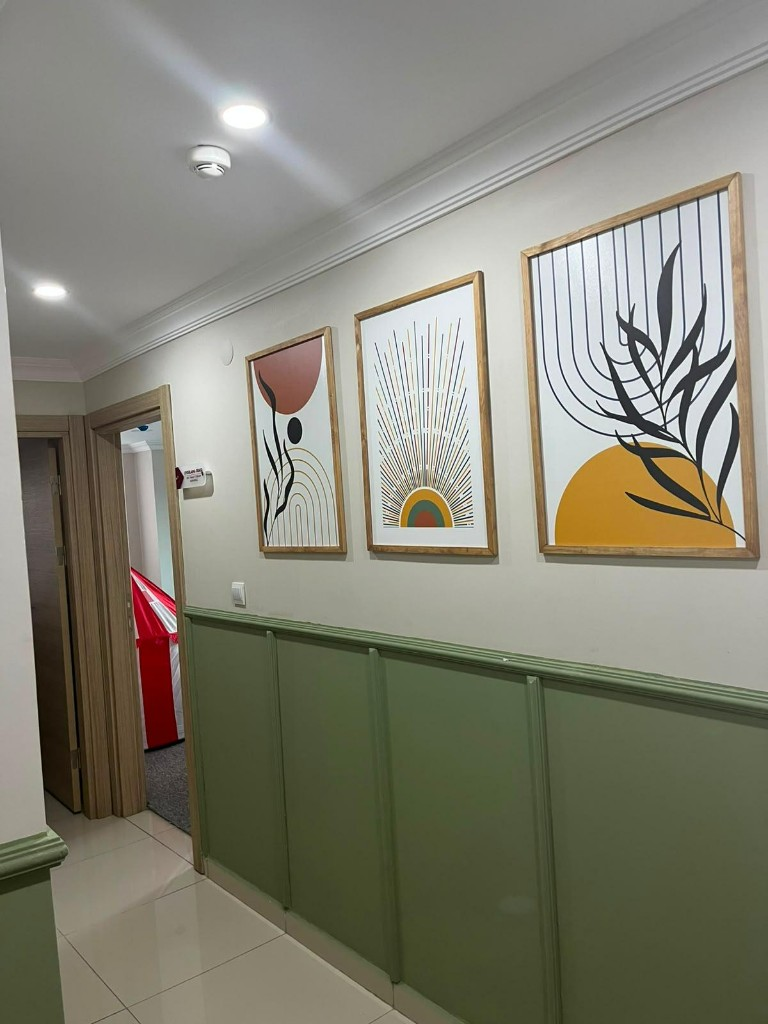
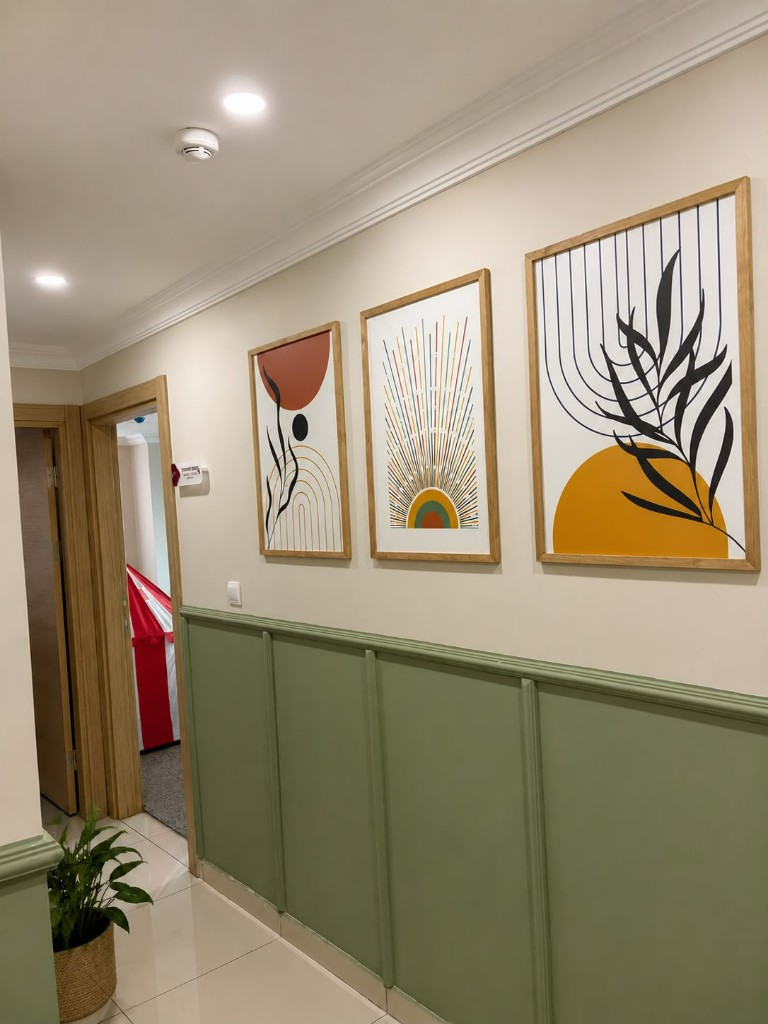
Klinik fotograflari guncellendi ve iletisim bolumune pinli harita eklendi.

diff --git a/src/components/ContactSection.vue b/src/components/ContactSection.vue
@@ -1,6 +1,13 @@
 <script setup>
 import { reactive, ref } from 'vue'
 
+const address =
+  'Yenişehir, Ömer Lütfi Özaytaç Caddesi No:5 Kat:2 Daire:202, 78000 Merkez/Karabük'
+const coordinates = '41.197423,32.618969'
+const mapsUrl = `https://www.google.com/maps/search/?api=1&query=${coordinates}`
+const directionsUrl = `https://www.google.com/maps/dir/?api=1&destination=${coordinates}`
+const mapsEmbedUrl = `https://www.google.com/maps?q=${coordinates}&hl=tr&z=17&output=embed`
+
 const form = reactive({
   name: '',
   phone: '',
@@ -117,10 +124,6 @@ async function onSubmit(event) {
 
       <ul class="contact__meta reveal">
         <li>
-          <span>Konum</span>
-          <strong>Yenişehir, Ömer Lütfi Özaytaç Caddesi No:5 Kat:2 Daire:202, 78000 Merkez/Karabük</strong>
-        </li>
-        <li>
           <span>Telefon</span>
           <strong>
             <a href="tel:+905013378878">0501 337 88 78</a>
@@ -133,6 +136,37 @@ async function onSubmit(event) {
           </strong>
         </li>
       </ul>
+
+      <div class="contact__location reveal">
+        <span class="contact__location-label">Konum</span>
+        <a
+          class="contact__address"
+          :href="mapsUrl"
+          target="_blank"
+          rel="noopener noreferrer"
+        >
+          {{ address }}
+        </a>
+
+        <div class="contact__map">
+          <iframe
+            :src="mapsEmbedUrl"
+            title="Dil ve Konuşma Terapisti İlknur Coşkun Karaveli klinik konumu"
+            loading="lazy"
+            referrerpolicy="no-referrer-when-downgrade"
+            allowfullscreen
+          ></iframe>
+        </div>
+
+        <a
+          class="contact__directions"
+          :href="directionsUrl"
+          target="_blank"
+          rel="noopener noreferrer"
+        >
+          Yol tarifi al
+        </a>
+      </div>
 
       <div class="contact__channels reveal">
         <a
@@ -308,6 +342,72 @@ async function onSubmit(event) {
   color: var(--color-brand);
 }
 
+.contact__location {
+  margin-top: 2.75rem;
+  display: grid;
+  gap: 1rem;
+  width: min(100%, 36rem);
+  text-align: center;
+}
+
+.contact__location-label {
+  font-size: 0.8rem;
+  letter-spacing: 0.1em;
+  text-transform: uppercase;
+  color: var(--color-brand-soft);
+}
+
+.contact__address {
+  font-weight: 500;
+  color: var(--color-ink);
+  line-height: 1.55;
+  transition: color 0.2s ease;
+}
+
+.contact__address:hover {
+  color: var(--color-brand);
+}
+
+.contact__map {
+  overflow: hidden;
+  border-radius: calc(var(--radius) + 0.15rem);
+  border: 1px solid var(--color-line);
+  box-shadow: var(--shadow-soft);
+  background: #fff;
+}
+
+.contact__map iframe {
+  display: block;
+  width: 100%;
+  height: clamp(220px, 42vw, 320px);
+  border: 0;
+}
+
+.contact__directions {
+  justify-self: center;
+  display: inline-flex;
+  align-items: center;
+  justify-content: center;
+  min-height: 3rem;
+  padding: 0.7rem 1.35rem;
+  border-radius: 999px;
+  border: 1px solid rgba(31, 92, 87, 0.18);
+  background: #fff;
+  color: var(--color-brand-deep);
+  font-weight: 500;
+  font-size: 0.95rem;
+  transition: transform 0.35s var(--ease-out), background 0.25s ease, border-color 0.25s ease,
+    box-shadow 0.35s var(--ease-out);
+}
+
+.contact__directions:hover {
+  transform: translateY(-2px);
+  background: var(--color-brand);
+  border-color: var(--color-brand);
+  color: #f7fbfa;
+  box-shadow: 0 12px 28px rgba(31, 92, 87, 0.2);
+}
+
 .contact__channels {
   margin-top: 1.75rem;
   display: flex;
@@ -350,7 +450,8 @@ async function onSubmit(event) {
 }
 
 @media (prefers-reduced-motion: reduce) {
-  .contact__channel:hover {
+  .contact__channel:hover,
+  .contact__directions:hover {
     transform: none;
   }
 }

diff --git a/src/components/ClinicSection.vue b/src/components/ClinicSection.vue
@@ -1,23 +1,22 @@
 <script setup>
 import { onMounted, onUnmounted, ref } from 'vue'
-import giris from '../assets/klinik/giris.jpg'
 import tabela from '../assets/klinik/tabela.jpg'
+import beklemeSalonu from '../assets/klinik/bekleme-salonu.jpg'
 import koridor from '../assets/klinik/koridor.jpg'
 import duvarDekor from '../assets/klinik/duvar-dekor.jpg'
-import uygulamaOdasi from '../assets/klinik/uygulama-odasi.jpg'
 import terapiOdasi from '../assets/klinik/terapi-odasi.jpg'
 import manzara from '../assets/klinik/manzara.jpg'
 
 const photos = [
   {
-    src: giris,
-    alt: 'Klinik giriş ve bekleme alanı',
-    caption: 'Giriş ve bekleme alanı',
-  },
-  {
     src: tabela,
     alt: 'Dil ve Konuşma Terapisti İlknur Coşkun Karaveli tabelası',
     caption: 'Klinik tabelası',
+  },
+  {
+    src: beklemeSalonu,
+    alt: 'Bekleme salonu ve sertifika duvarı',
+    caption: 'Bekleme salonu',
   },
   {
     src: koridor,
@@ -28,11 +27,6 @@ const photos = [
     src: duvarDekor,
     alt: 'İletişim dünyaya açılan bir köprüdür duvar dekoru',
     caption: 'Bekleme alanı dekoru',
-  },
-  {
-    src: uygulamaOdasi,
-    alt: 'Uygulama odası girişi',
-    caption: 'Uygulama odası',
   },
   {
     src: terapiOdasi,
@@ -132,6 +126,7 @@ onUnmounted(() => {
   display: grid;
   grid-template-columns: repeat(3, minmax(0, 1fr));
   gap: clamp(1.25rem, 3vw, 2rem);
+  align-items: start;
 }
 
 .clinic__trigger {
@@ -147,8 +142,10 @@ onUnmounted(() => {
   aspect-ratio: 4 / 3;
   object-fit: cover;
   object-position: center;
+  display: block;
   border-radius: 1rem;
   box-shadow: var(--shadow-soft);
+  background: var(--color-bg-deep);
   transition: transform 0.45s var(--ease-out), box-shadow 0.45s var(--ease-out);
 }
 
@@ -177,8 +174,10 @@ onUnmounted(() => {
 }
 
 .lightbox img {
-  width: min(100%, 960px);
-  max-height: min(82vh, 960px);
+  width: auto;
+  height: auto;
+  max-width: min(100%, 720px);
+  max-height: min(88vh, 960px);
   object-fit: contain;
   border-radius: 0.75rem;
   background: #fff;
